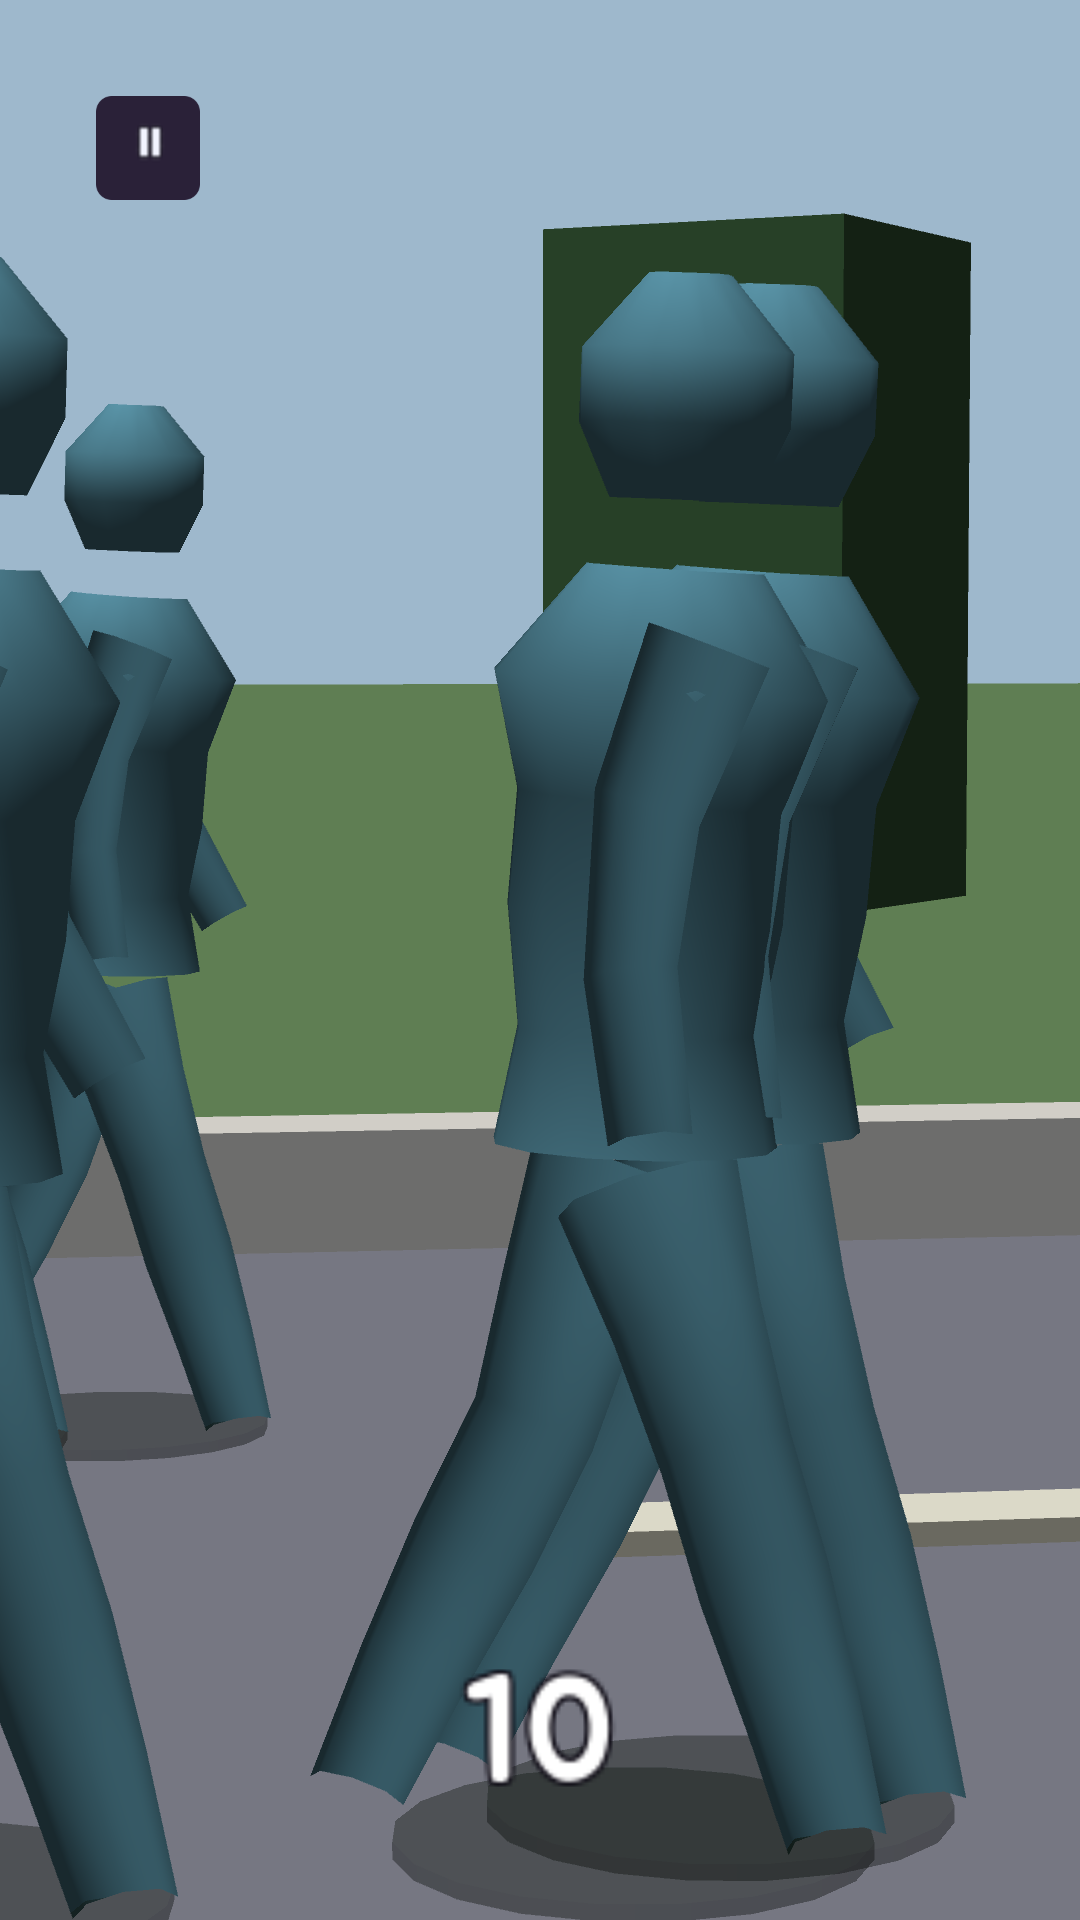
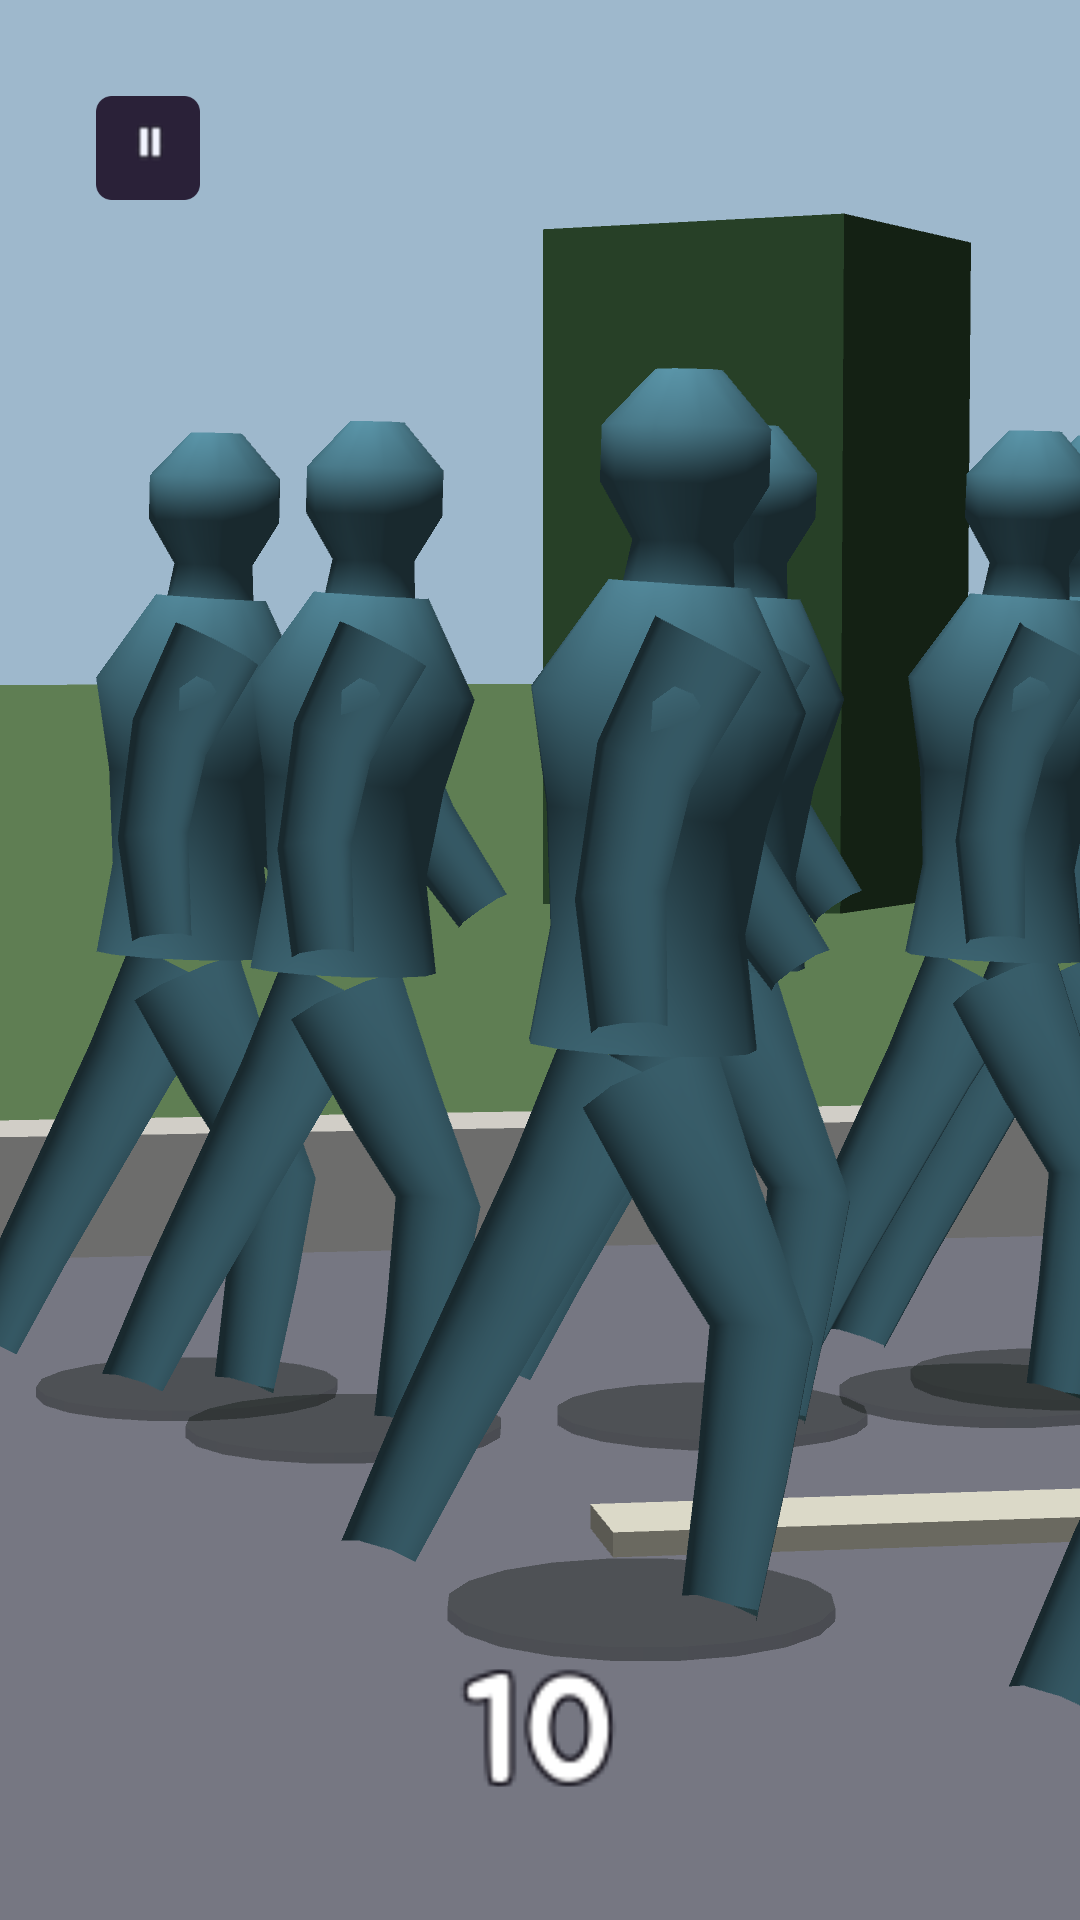
feat(m0): a neck, and arms that are round instead of flat
확대 사진이 또 둘을 말했다 (세션 A).

**① 머리가 떠 있었다.** 몸통 끝(목, y 1.54)과 머리 시작(y 1.62) 사이가 8 cm
비어서, 확대하면 머리 아래로 뒤 나무가 그대로 비쳤다. 머리를 목에서 시작하고
첫 층을 가늘게 두면 목이 생긴다 — 정점을 더 안 쓰고 틈만 메운다.

**② 팔이 널빤지였다.** 6 각 관은 옆에서 보면 평평한 판 두 장이다. 8 각으로
늘리고 두껍게 했고, 그만큼 머리 고리를 12 → 10 으로 줄여 예산 안에 뒀다.

254 정점 · 본 20 · 400 삼각형 (예산 300/20)

> 둘 다 군중 사진에서는 안 보인다 — 거기서 사람은 10 px 이고 "사람처럼 생겼다"
> 까지만 안다. `unit_closeup.png` 를 매번 찍게 한 뒤로 다섯을 잡았다:
> 팔이 몸통 안에 있던 것 · 몸통이 자루였던 것 · 머리가 컸던 것 · 목이 없던 것 ·
> 팔이 납작했던 것.

5/5 통과 · 웹 빌드 10 MB

diff --git a/Assets/_Game/Scripts/Editor/M0Assets.cs b/Assets/_Game/Scripts/Editor/M0Assets.cs
@@ -187,10 +187,13 @@ namespace CrowdRunner.EditorTools
                 // 몸통 — 골반에서 목까지. 어깨에서 가장 넓다
                 Part(verts, weights, tris, R(12), R(5), rest[0], rest[3],
                      new[] { 0, 0, 1, 2, 3 }, new[] { 0.17f, 0.145f, 0.165f, 0.205f, 0.105f });
-                // 머리 — 목 위의 공
-                Part(verts, weights, tris, R(12), R(4), rest[4] + new Vector3(0f, -0.06f, 0f),
-                     rest[4] + new Vector3(0f, 0.20f, 0f),
-                     new[] { 4, 4, 4, 4 }, new[] { 0.085f, 0.125f, 0.125f, 0.05f });
+                // 머리 — **목에서 시작한다.** 전에는 `rest[4] - 0.06`(y 1.62)부터 그려서
+                // 몸통 끝(목, y 1.54)과 **8 cm 가 비었고**, 확대하면 머리 아래로 뒤 나무가
+                // 그대로 비쳤다. 목에서 시작하고 첫 층을 가늘게 두면 목이 생긴다 —
+                // 정점을 더 쓰지 않고 틈만 메운다
+                Part(verts, weights, tris, R(10), R(5), rest[3] + new Vector3(0f, -0.02f, 0f),
+                     rest[4] + new Vector3(0f, 0.17f, 0f),
+                     new[] { 3, 4, 4, 4, 4 }, new[] { 0.085f, 0.075f, 0.125f, 0.125f, 0.05f });
                 // 다리 둘 — 엉덩이에서 발까지
                 for (int sgn = 0; sgn < 2; sgn++)
                 {
@@ -202,8 +205,11 @@ namespace CrowdRunner.EditorTools
                 for (int sgn = 0; sgn < 2; sgn++)
                 {
                     int sh = sgn == 0 ? 11 : 14;
-                    Part(verts, weights, tris, R(6), R(4), rest[sh], rest[sh + 2] + new Vector3(0f, -0.04f, 0f),
-                         new[] { sh, sh, sh + 1, sh + 2 }, new[] { 0.075f, 0.065f, 0.055f, 0.05f });
+                    // **고리를 늘리고 두껍게.** 6 각 · 반지름 0.075 는 확대하면 **널빤지**로
+                    // 읽혔다 — 면이 적으면 옆에서 볼 때 평평한 판 두 장이 된다. 8 각이면
+                    // 둥글게 보이고, 그만큼 머리 고리를 12 → 10 으로 줄여 예산 안에 둔다
+                    Part(verts, weights, tris, R(8), R(4), rest[sh], rest[sh + 2] + new Vector3(0f, -0.04f, 0f),
+                         new[] { sh, sh, sh + 1, sh + 2 }, new[] { 0.085f, 0.075f, 0.065f, 0.055f });
                 }
 
                 if (verts.Count <= want) break;
